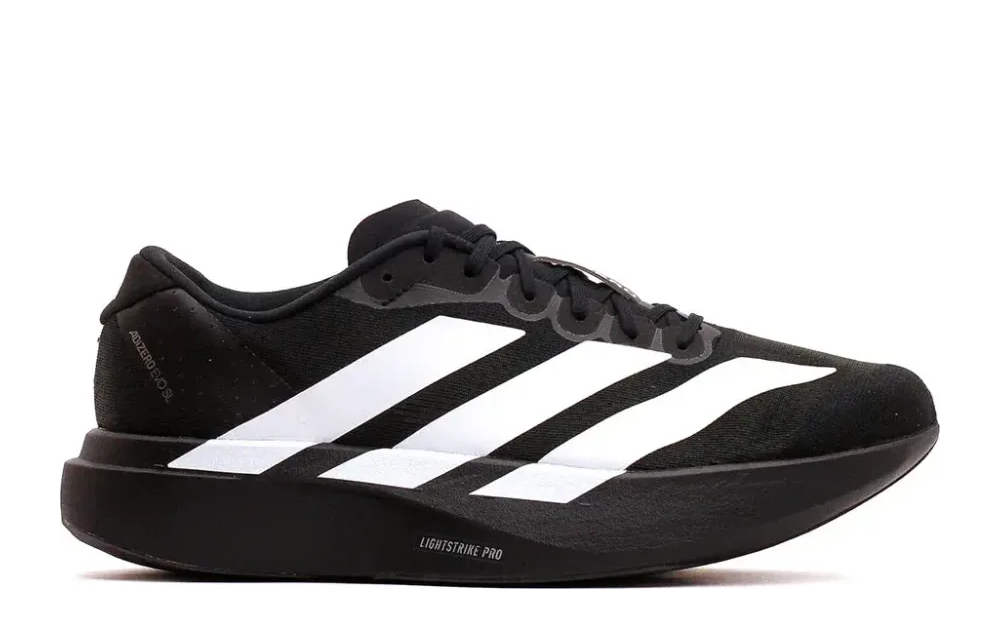
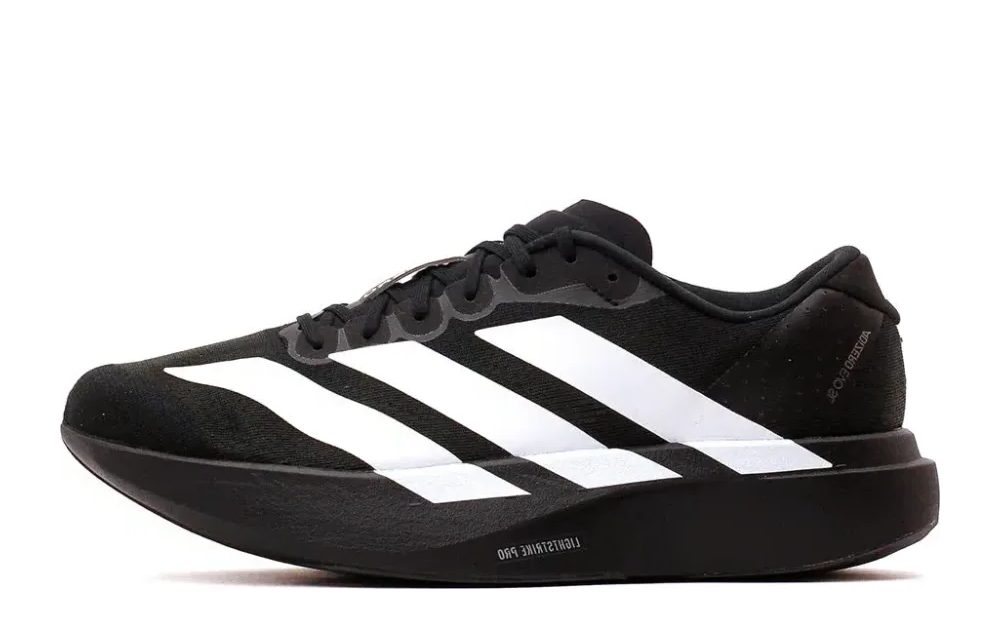
Full image audit: fix orientation and replace format-issue shoe images
- Flipped 6 toe-right shoes to toe-left: adidas-adizero-evo-sl, asics-gel-nimbus-26, asics-metaspeed-sky-paris, brooks-hyperion-max-2, puma-fast-r-nitro-elite-3, saucony-endorphin-speed-5
- Replaced + reoriented 2 shoes with clean side-profile sources: adidas-adizero-sl2, nike-book-1
- Replaced 11 shoes with white-background single-shoe side-profile images (removing 3/4-angle, dark-BG, and pair-shot sources): anta-kai-3, adidas-harden-vol-8, li-ning-all-city-14, li-ning-gamma-2, li-ning-jb3, li-ning-liren-6v2, li-ning-wade-808-3-ultra-v2, nike-giannis-immortality-3, nike-ja-3, nike-lebron-nxxt-gen-ampd, puma-mb-03
- Updated shoeImages source URLs in reviews.js for replaced shoes
- Orientation gate passed (all 118 shoes verified toe-left)

Changed region(s): [[0.062, 0.304, 0.961, 0.9424]]

diff --git a/src/data/reviews.js b/src/data/reviews.js
@@ -2124,7 +2124,7 @@ export const shoeImagesOriginal = {
   "Nike Shai 001":                      "https://www.basketballemotion.com/imagesarticulos/338303/750/zapatillas-converse-shai-001-white-white-white-1.webp",
   "Nike GT Cut 3":                      "https://www.kicksown.com/cdn/shop/files/6_731595d2-8628-47dc-9b79-a1ec8b3c9fae.jpg?v=1754387252&width=960",
   "Nike GT Cut 4":                      "https://www.kicksown.com/cdn/shop/files/1_c0874a3a-715d-4aaf-aecb-5157d64f6b3b.jpg?v=1768816288&width=960",
-  "Nike Ja 3":                          "https://www.kicksown.com/cdn/shop/files/24_c985aeab-8b27-400c-8d57-d089d4f8d65c.jpg?v=1755594063&width=960",
+  "Nike Ja 3":                          "https://www.kicksown.com/cdn/shop/files/5_93f7e77c-5573-47ed-b1b7-f53b40610d74.jpg?v=1771926661&width=960",
   "Nike Kobe 6 Protro":                 "https://www.kicksown.com/cdn/shop/files/17_ff7a8e36-6576-4d2b-aadc-331918297d38.jpg?v=1754979220&width=960",
   "Nike Kobe AD NXT FF":                "https://images.stockx.com/360/Nike-Kobe-AD-NXT-FF-Queen/Images/Nike-Kobe-AD-NXT-FF-Queen/Lv2/img01.jpg?w=1000&q=60&dpr=1&updated_at=1634923165",
   "Air Jordan 40":                      "https://cdn1.basket4ballers.com/297601-large_default/air-jordan-40-olive-hq2077-200.jpg",
@@ -2132,20 +2132,20 @@ export const shoeImagesOriginal = {
   "361 Joker 2":                        "https://cdn.media.amplience.net/i/scheelspoc/84093915983?w=1200&h=1200&fmt=auto&v=1",
   "361 Joker 2 Low":                    "https://www.shopnings.com/media/catalog/product/cache/7604690e2431281e8194543462f8084a/6/7/672611110-96.jpg",
   "361 Joker 2 GT":                     "https://www.kicksown.com/cdn/shop/files/6_5e41a730-bb9d-42ea-9046-05f5725bf075.jpg",
-  "Li-Ning JB3":                        "https://wowsole.com/wp-content/uploads/2025/05/LiNing-Jimmy-Butler-JB3-North-Carolina-Blue-2-800x800.jpg",
+  "Li-Ning JB3":                        "https://www.kicksown.com/cdn/shop/files/20250514175713.jpg?v=1747216693&width=960",
   "Li-Ning Way of Wade 12":             "https://wowsole.com/wp-content/uploads/2025/12/WAY-OF-WADE-WOW-12-Black-Warriors-9-768x767.jpg",
   "Li-Ning Gamma 1":                    "https://www.shopnings.com/media/catalog/product/cache/7604690e2431281e8194543462f8084a/l/i/lining-gamma-white-light.jpg",
-  "Li-Ning Gamma 2":                    "https://wowsole.com/wp-content/uploads/2026/01/LiNing-Gamma-2-Blazar-6-1024x1024.jpg",
-  "Li-Ning Liren 6v2":                  "https://wowsole.com/wp-content/uploads/2026/02/LiNing-LiRen-6-V2-Moon-1.jpg",
-  "Li-Ning Wade 808 3 Ultra v2":        "https://wowsole.com/wp-content/uploads/2024/01/LiNing-Way-of-Wade-808-3-Ultra-V2-Tour-High-Boom-White-1024x1024.jpg",
+  "Li-Ning Gamma 2":                    "https://wowsole.com/wp-content/uploads/2026/02/LiNing-Gamma-2-Plato-4.jpg",
+  "Li-Ning Liren 6v2":                  "https://www.shopnings.com/media/catalog/product/cache/7604690e2431281e8194543462f8084a/a/b/abav087-22.jpeg",
+  "Li-Ning Wade 808 3 Ultra v2":        "https://www.shopnings.com/media/catalog/product/cache/7604690e2431281e8194543462f8084a/b/4/b4e4c1abb0dc930fd22f5f871d82b3f5564a8bfb0752c4692192284c990aa467b38624078f777ed3.jpg",
   "Li-Ning All City 14":                "https://wowsole.com/wp-content/uploads/2025/12/Way-of-Wade-All-City-14-Caution.jpg",
-  "ANTA Kai 3":                         "https://www.basketballemotion.com/imagesarticulos/338651/750/zapatillas-anta-kai-3-432-hz-purple-red-0.webp",
+  "ANTA Kai 3":                         "https://www.kicksown.com/cdn/shop/files/1_4496f94f-eef5-421e-9377-6cfdcf8caac9.jpg?v=1777193755&width=960",
   "Jordan Tatum 3":                     "https://www.kicksown.com/cdn/shop/files/079204c899792b7f094aa45a381f1b65_1_5dfc9c0b-c135-4a8e-b435-4992be6489aa.jpg?v=1761116343&width=960",
   "UA Curry 12":                        "https://www.basketballemotion.com/imagesarticulos/236924/750/zapatillas-under-armour-curry-12-shooting-star-white-1.webp",
-  "Puma MB.03":                         "https://images.puma.com/image/upload/f_auto,q_auto,b_rgb:fafafa,w_600,h_600/global/310519/03/sv01/fnd/PNA/fmt/png/MB.03-Lo-Team-Men%27s-Basketball-Shoes",
-  "Nike Giannis Immortality 3":         "https://www.basketballemotion.com/imagesarticulos/226927/750/zapatilla-nike-giannis-immortality-3-white-lt-photo-blue-lt-laser-orange-0.webp",
+  "Puma MB.03":                         "https://www.shoebacca.com/cdn/shop/files/37990401_1l.jpg?v=1776989172",
+  "Nike Giannis Immortality 3":         "https://images.stockx.com/360/Nike-Giannis-Immortality-3-Triple-White/Images/Nike-Giannis-Immortality-3-Triple-White/Lv2/img01.jpg?w=1000&q=60&dpr=1&updated_at=1718709676&h=667",
   "Puma Scoot Zero 1":                  "https://images.puma.com/image/upload/f_auto,q_auto,b_rgb:fafafa,w_600,h_600/global/310415/05/sv01/fnd/PNA/fmt/png/Scoot-Zeros-Men%27s-Basketball-Shoes",
-  "Nike LeBron NXXT Gen AMPD":          "https://www.basketballemotion.com/imagesarticulos/226932/750/zapatilla-nike-zoom-lebron-nxxt-gen-ampd-white-black-university-red-0.webp",
+  "Nike LeBron NXXT Gen AMPD":          "https://images.stockx.com/360/Nike-Zoom-LeBron-NXXT-Gen-AMPD-First-Game/Images/Nike-Zoom-LeBron-NXXT-Gen-AMPD-First-Game/Lv2/img01.jpg?w=1000&q=60&dpr=1&updated_at=1738596319&h=667",
   "Jordan Luka .77":                    "https://www.kicksown.com/cdn/shop/files/079204c899792b7f094aa45a381f1b65_46a5b88f-2702-4453-afbf-2e01ce354114.jpg",
   "Reebok Engine A":                    "https://cdn.media.amplience.net/i/scheelspoc/19880674482?w=1200&h=1200&fmt=auto&v=1",
   "Adidas Kobe Crazy 8":                "https://www.topsandbottomsusa.com/cdn/shop/files/adidas-kobe-bryants-crazy-8-black-white-shoes-if2448_2.webp?v=1723497052&width=1500",
@@ -2169,14 +2169,14 @@ export const shoeImagesOriginal = {
   "Puma All-Pro Nitro Elite":           "https://images.puma.com/image/upload/f_auto,q_auto,b_rgb:fafafa,w_600,h_600/global/311262/01/sv01/fnd/PNA/fmt/png/All-Pro-NITRO%E2%84%A2-Elite-Men%27s-Basketball-Shoes",
   "ANTA KT7":                           "https://antosports.com/cdn/shop/products/8E2DC253-2CE8-4297-8725-9EC48820C60D.jpg?v=1717754627&width=960",
   "ANTA KT9":                           "https://images.squarespace-cdn.com/content/v1/5f039f1bcb8f8859e477beef/1721711565740-Z7CNDV5KA10M0UWMOTZR/Anta+KT9+Spring+Side+View.jpg",
-  "Adidas Harden Vol 8":                "https://www.basketballemotion.com/imagesarticulos/234812/750/zapatillas-adidas-harden-volume-8-purple-burst-core-black-silver-met.-0.webp",
+  "Adidas Harden Vol 8":                "https://cdn2.basket4ballers.com/249936-large_default/adidas-harden-volume-8-luxury-red.jpg",
   "SPO Easy 1":                         "https://seriousplayeronly.com/cdn/shop/files/aa906445a034ceb421870585775fde7.jpg?v=1739344942",
   "Nike GT Cut 1":                      "https://www.kicksown.com/cdn/shop/files/41_78075556-5645-4c19-a385-db370cb6d936.jpg?v=1754390470&width=960",
   "Jordan Luka 4":                      "https://cdn1.basket4ballers.com/281042-large_default/jordan-luka-4-gone-fishing-ib7903-600.jpg",
   "Nike Zion 3 SE":                     "https://footdistrict.com/cdn/shop/files/sneakers-jordan-zion-3-se-fn1714-040-0.jpg",
   "Adidas Trae Young 2":                "https://www.solestop.com/cdn/shop/files/adidas-basketball-men-trae-young-2-black-white-h06477-736.jpg?v=1762290097",
   "Adidas Trae Unlimited 2 Low":        "https://cdn.sportshop.com/catalog/product/1500/1500/1/8/180875_1.jpg",
-  "Nike Book 1":                        "https://www.dtlr.com/cdn/shop/files/Nike_FJ4249_20101_M014.jpg?v=1714053171",
+  "Nike Book 1":                        "https://www.kicksown.com/cdn/shop/files/34_092f61d5-6054-4195-85d2-2a69f4a028a5.jpg?v=1756796518&width=960",
   "Li-Ning Speed XI":                   "https://www.basketballemotion.com/imagesarticulos/261894/750/zapatillas-li-ning-speed-xi-blanco-1.webp",
   "ANTA Swagger 1.0":                   "https://www.anta.ph/cdn/shop/files/S72677b367833406a9956c841f5b2ea24t.jpg?v=1724226897&width=960",
   "New Balance Fresh Foam BB v2":       "https://www.leagueoutfitters.com/cdn/shop/files/300435952.png?v=1775665980&width=1500",
@@ -2212,7 +2212,7 @@ export const shoeImagesOriginal = {
   "Puma Fast-R Nitro Elite 3":          "https://images.puma.com/image/upload/f_auto,q_auto,b_rgb:fafafa,w_600,h_600/global/312060/07/sv01/fnd/PNA/fmt/png/FAST-R-NITRO%E2%84%A2-Elite-3-Men%27s-Road-Running-Shoes",
   "Salomon Aero Glide 3":               "https://www.lwshoes.com/cdn/shop/files/344286_LRG_2048x.jpg?v=1767653922",
   "Adidas Adizero Boston 13":           "https://thelooprunning.com/cdn/shop/files/IMG_7823.png?v=1780082844",
-  "Adidas Adizero SL2":                 "https://shop.simon.com/cdn/shop/files/4dcee9b8e27740968be996a4cc8cd666.jpg?v=1755678135",
+  "Adidas Adizero SL2":                 "https://www.prodirectsport.com/cdn/shop/files/1020183_main.jpg",
   "Mizuno Neo Vista 2":                 "https://www.nashvillerunning.com/cdn/shop/files/NEOVISTA2_grande.jpg?v=1747773152",
   "Mizuno Neo Zen":                     "https://www.nashvillerunning.com/cdn/shop/files/NEOZENGREY_grande.jpg?v=1759941978",
   "Adidas Adizero Evo SL":              "https://www.solestop.com/cdn/shop/files/adidas-men-adizero-evo-sl-black-white-core-jp7149-590.jpg?v=1773867141",
